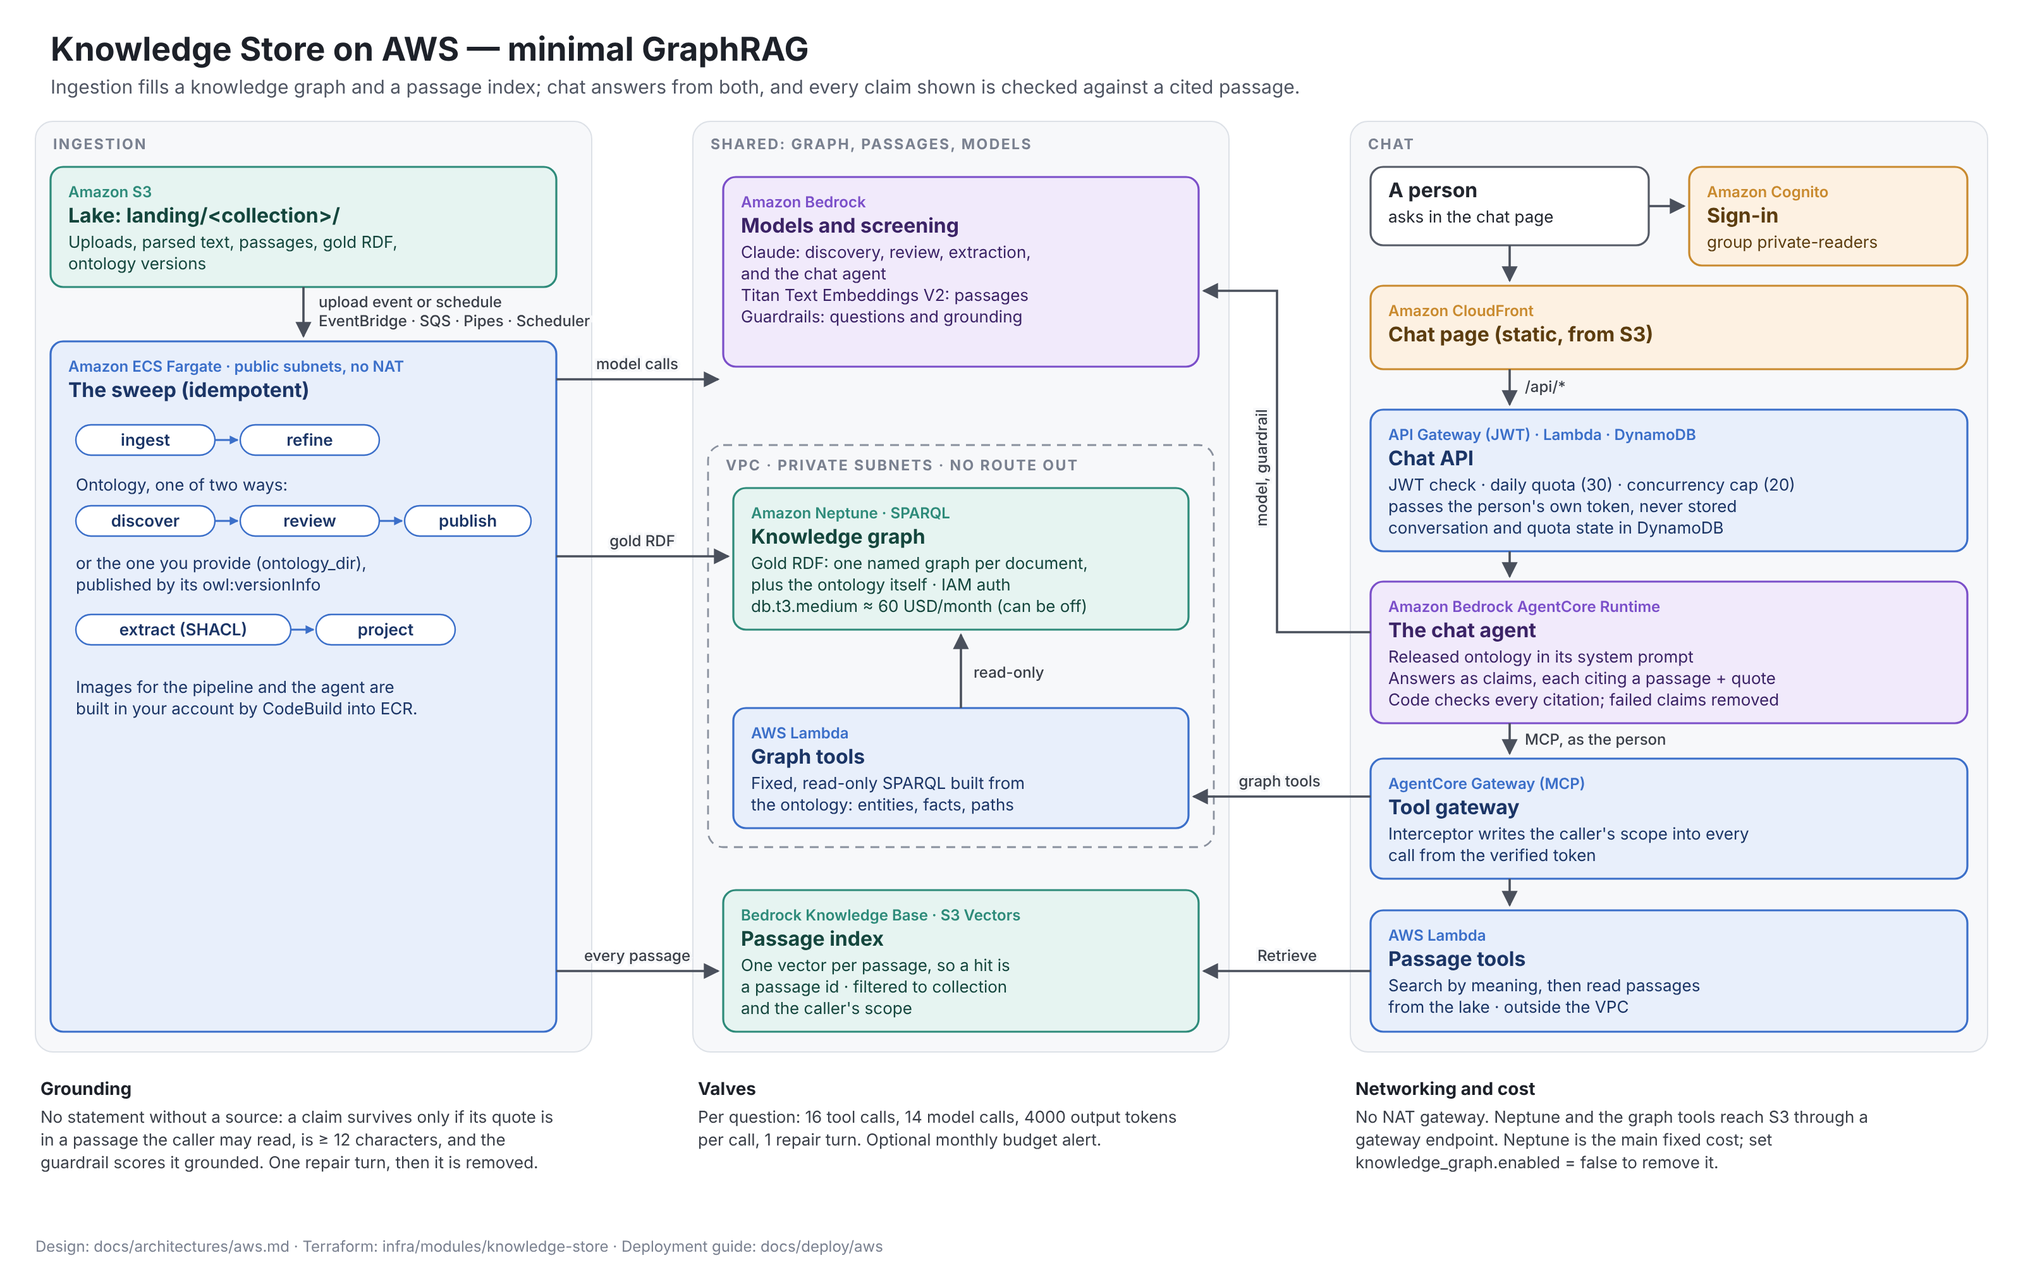
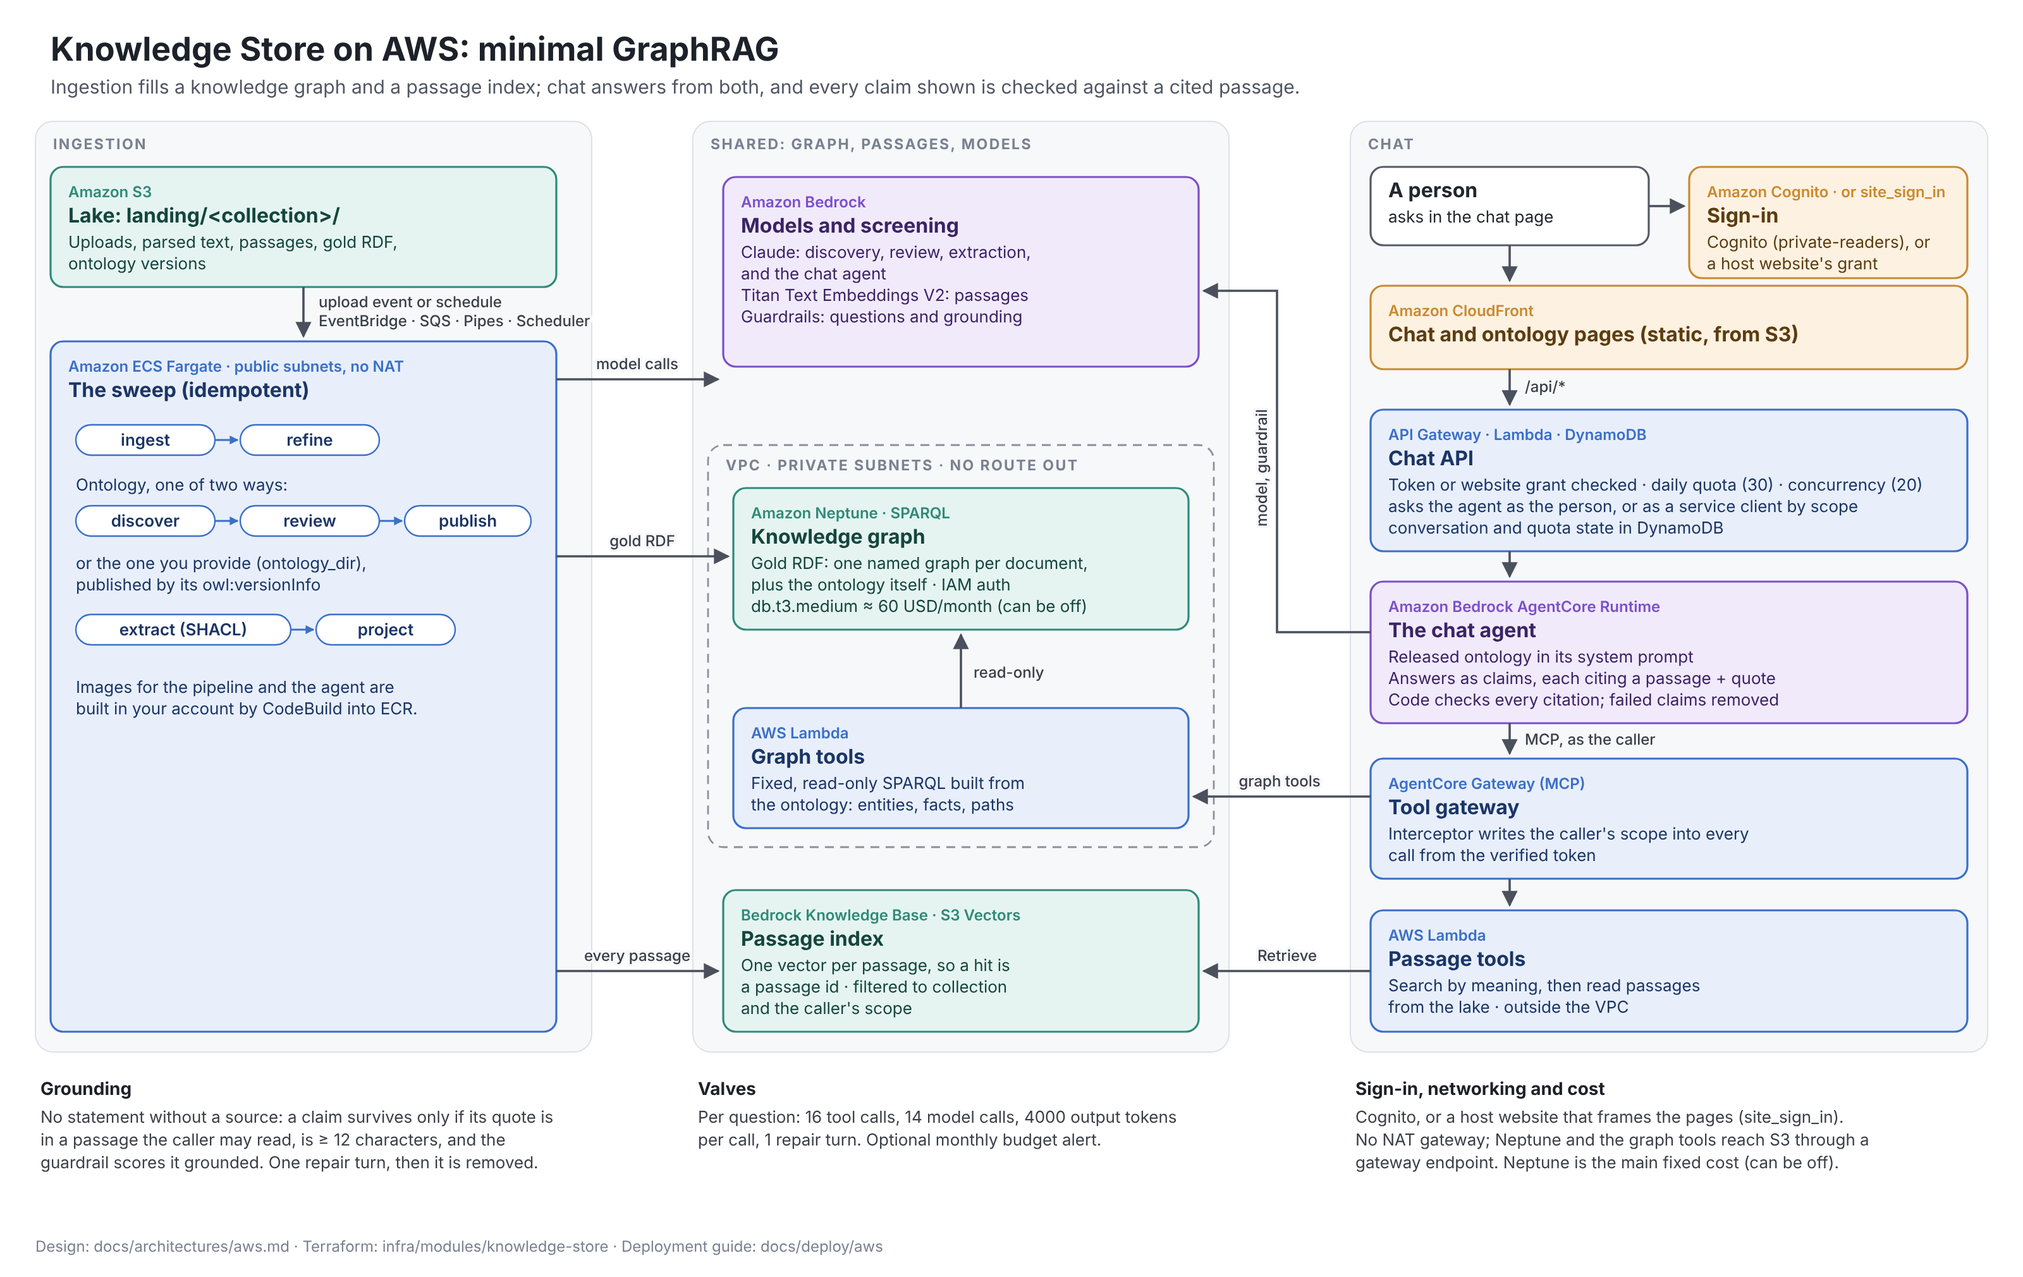
docs(deploy): add the AWS architecture diagram as an editable draw.io file
docs/deploy/aws/architecture.drawio, generated by architecture_drawio.py
with the same layout and content as the SVG: every component a draw.io
shape and every flow a connector, so it can be changed in diagrams.net.
The SVG and PNG now also show sign-in through a host website
(site_sign_in), the ontology page, and the chat API asking the agent as a
service client.

Claude-Session: https://claude.ai/code/session_01BPzYfKMy95mKNesbjZCLLw

diff --git a/docs/deploy/aws/architecture_drawio.py b/docs/deploy/aws/architecture_drawio.py
@@ -1,0 +1,188 @@
+# Generates architecture.drawio, an editable draw.io (diagrams.net) version of the Knowledge Store
+# AWS reference architecture, next to this file. Same layout and content as architecture.py (the
+# SVG and PNG); open the .drawio file in diagrams.net or the draw.io desktop app or VS Code
+# extension to change it.
+#   python3 architecture_drawio.py
+import os
+from xml.sax.saxutils import escape
+
+W, H = 1600, 1010
+C = {  # role: (fill, stroke, text), as architecture.py
+    "store": ("#E6F4F1", "#2E8B7A", "#14463D"),
+    "compute": ("#E8EFFB", "#3B6FC9", "#1B3566"),
+    "ai": ("#F1EAFB", "#7B4FC9", "#3B2366"),
+    "edge": ("#FDF1E2", "#C98A2E", "#5C3D0F"),
+    "person": ("#FFFFFF", "#555B66", "#22262E"),
+}
+FONT = "fontFamily=Helvetica;"
+cells = []
+n = [1]
+
+
+def nid(prefix):
+    n[0] += 1
+    return f"{prefix}{n[0]}"
+
+
+def attr(s: str) -> str:
+    return escape(s, {'"': "&quot;"})
+
+
+def vertex(x, y, w, h, style, value="", ident=None, parent="1"):
+    ident = ident or nid("v")
+    cells.append(f'<mxCell id="{ident}" value="{attr(value)}" style="{style}" vertex="1" parent="{parent}">'
+                 f'<mxGeometry x="{x}" y="{y}" width="{w}" height="{h}" as="geometry"/></mxCell>')
+    return ident
+
+
+def box(x, y, w, h, role, title, lines=(), svc=None, ident=None):
+    """A component: the AWS service on top, then its name and what it does."""
+    f, s, t = C[role]
+    parts = []
+    if svc:
+        parts.append(f'<font style="font-size:12px" color="{s}"><b>{escape(svc)}</b></font>')
+    parts.append(f'<font style="font-size:16px"><b>{escape(title)}</b></font>')
+    if lines:
+        parts.append('<font style="font-size:13px">' + "<br>".join(escape(l) for l in lines) + "</font>")
+    style = (f"rounded=1;arcSize=6;absoluteArcSize=1;whiteSpace=wrap;html=1;fillColor={f};strokeColor={s};"
+             f"strokeWidth=1.6;fontColor={t};align=left;verticalAlign=top;spacingLeft=12;spacingTop=6;{FONT}")
+    return vertex(x, y, w, h, style, "<br>".join(parts), ident)
+
+
+def chip(x, y, w, text, role, ident=None):
+    f, s, t = C[role]
+    style = (f"rounded=1;arcSize=50;whiteSpace=wrap;html=1;fillColor=#FFFFFF;strokeColor={s};strokeWidth=1.2;"
+             f"fontColor={t};fontStyle=1;fontSize=13;{FONT}")
+    return vertex(x, y, w, 24, style, escape(text), ident)
+
+
+def text(x, y, w, h, html, size=13, color="#3A3F48", bold=False, align="left"):
+    style = (f"text;html=1;whiteSpace=wrap;fontSize={size};fontColor={color};align={align};verticalAlign=top;"
+             f"fontStyle={1 if bold else 0};{FONT}")
+    return vertex(x, y, w, h, style, html)
+
+
+def edge(src, tgt, label="", points=(), dashed=False, color="#4A505C", width=1.8, exit=None, entry=None):
+    style = (f"edgeStyle=none;html=1;rounded=0;endArrow=block;endFill=1;strokeColor={color};strokeWidth={width};"
+             f"fontSize=12;fontColor=#3A3F48;labelBackgroundColor=#F7F8FA;{FONT}")
+    if dashed:
+        style += "dashed=1;"
+    if exit:
+        style += f"exitX={exit[0]};exitY={exit[1]};exitDx=0;exitDy=0;"
+    if entry:
+        style += f"entryX={entry[0]};entryY={entry[1]};entryDx=0;entryDy=0;"
+    pts = "".join(f'<mxPoint x="{x}" y="{y}"/>' for x, y in points)
+    arr = f'<Array as="points">{pts}</Array>' if pts else ""
+    label = "<br>".join(escape(p) for p in label.split("\n")) if label else ""
+    cells.append(f'<mxCell id="{nid("e")}" value="{attr(label)}" style="{style}" edge="1" parent="1" '
+                 f'source="{src}" target="{tgt}"><mxGeometry relative="1" as="geometry">{arr}</mxGeometry></mxCell>')
+
+
+# --- title and lanes -----------------------------------------------------------------------------
+text(40, 22, 1500, 34, "Knowledge Store on AWS: minimal GraphRAG", 26, "#1D2129", True)
+text(40, 58, 1500, 22, "Ingestion fills a knowledge graph and a passage index; chat answers from both, and every "
+     "claim shown is checked against a cited passage.", 15, "#505663")
+for x, w, name in [(28, 440, "INGESTION"), (548, 424, "SHARED: GRAPH, PASSAGES, MODELS"), (1068, 504, "CHAT")]:
+    vertex(x, 96, w, 736, f"rounded=1;arcSize=2;absoluteArcSize=1;fillColor=#F7F8FA;strokeColor=#DDE1E7;"
+           f"html=1;connectable=0;{FONT}")
+    text(x + 14, 102, w - 28, 20, escape(name), 11.5, "#7A8190", True)
+
+# --- ingestion -----------------------------------------------------------------------------------
+lake = box(40, 132, 400, 95, "store", "Lake: landing/<collection>/",
+           ["Uploads, parsed text, passages, gold RDF,", "ontology versions"], "Amazon S3")
+sweep = box(40, 270, 400, 546, "compute", "The sweep (idempotent)", [], "Amazon ECS Fargate · public subnets, no NAT")
+edge(lake, sweep, "upload event or schedule\nEventBridge · SQS · Pipes · Scheduler")
+y0 = 336
+ingest, refine = chip(60, y0, 110, "ingest", "compute"), chip(190, y0, 110, "refine", "compute")
+text(60, y0 + 38, 360, 20, "Ontology, one of two ways:", 13, C["compute"][2])
+discover = chip(60, y0 + 64, 110, "discover", "compute")
+review = chip(190, y0 + 64, 110, "review", "compute")
+publish = chip(320, y0 + 64, 100, "publish", "compute")
+text(60, y0 + 100, 360, 40, "or the one you provide (ontology_dir),<br>published by its owl:versionInfo", 13,
+     C["compute"][2])
+extract = chip(60, y0 + 150, 170, "extract (SHACL)", "compute")
+project = chip(250, y0 + 150, 110, "project", "compute")
+for a, b in [(ingest, refine), (discover, review), (review, publish), (extract, project)]:
+    edge(a, b, color=C["compute"][1], width=1.4)
+text(60, y0 + 198, 360, 40, "Images for the pipeline and the agent are<br>built in your account by CodeBuild into ECR.",
+     13, C["compute"][2])
+
+# --- shared: Bedrock, the VPC with Neptune and the graph tools, the Knowledge Base -----------------
+bedrock = box(572, 140, 376, 150, "ai", "Models and screening",
+              ["Claude: discovery, review, extraction,", "and the chat agent", "Titan Text Embeddings V2: passages",
+               "Guardrails: questions and grounding"], "Amazon Bedrock")
+vertex(560, 352, 400, 318, f"rounded=1;arcSize=3;absoluteArcSize=1;fillColor=none;strokeColor=#8A919E;"
+       f"strokeWidth=1.4;dashed=1;dashPattern=7 5;html=1;connectable=0;{FONT}")
+text(574, 358, 380, 20, "VPC · PRIVATE SUBNETS · NO ROUTE OUT", 11.5, "#5A6170", True)
+neptune = box(580, 386, 360, 112, "store", "Knowledge graph",
+              ["Gold RDF: one named graph per document,", "plus the ontology itself · IAM auth",
+               "db.t3.medium ≈ 60 USD/month (can be off)"], "Amazon Neptune · SPARQL")
+graph_tools = box(580, 560, 360, 95, "compute", "Graph tools",
+                  ["Fixed, read-only SPARQL built from", "the ontology: entities, facts, paths"], "AWS Lambda")
+edge(graph_tools, neptune, "read-only")
+kb = box(572, 704, 376, 112, "store", "Passage index",
+         ["One vector per passage, so a hit is", "a passage id · filtered to collection", "and the caller's scope"],
+         "Bedrock Knowledge Base · S3 Vectors")
+
+edge(sweep, bedrock, "model calls", exit=(1, 0.055), entry=(0, 1.0))
+edge(sweep, neptune, "gold RDF", exit=(1, 0.31), entry=(0, 0.48))
+edge(sweep, kb, "every passage", exit=(1, 0.91), entry=(0, 0.57))
+
+# --- chat ------------------------------------------------------------------------------------------
+person = box(1084, 132, 220, 62, "person", "A person", ["asks in the chat page"])
+signin = box(1336, 132, 220, 88, "edge", "Sign-in", ["Cognito (private-readers), or", "a host website's grant"],
+             "Amazon Cognito · or site_sign_in")
+edge(person, signin, exit=(1, 0.5), entry=(0, 0.4))
+page = box(1084, 226, 472, 66, "edge", "Chat and ontology pages (static, from S3)", [], "Amazon CloudFront")
+edge(person, page, exit=(0.5, 1), entry=(0.233, 0))
+api = box(1084, 324, 472, 112, "compute", "Chat API",
+          ["Token or website grant checked · daily quota (30) · concurrency (20)",
+           "asks the agent as the person, or as a service client by scope",
+           "conversation and quota state in DynamoDB"], "API Gateway · Lambda · DynamoDB")
+edge(page, api, "/api/*", exit=(0.233, 1), entry=(0.233, 0))
+agent = box(1084, 460, 472, 112, "ai", "The chat agent",
+            ["Released ontology in its system prompt", "Answers as claims, each citing a passage + quote",
+             "Code checks every citation; failed claims removed"], "Amazon Bedrock AgentCore Runtime")
+edge(api, agent, exit=(0.233, 1), entry=(0.233, 0))
+edge(agent, bedrock, "model, guardrail", points=[(1010, 500), (1010, 230)], exit=(0, 0.357), entry=(1, 0.6))
+gateway = box(1084, 600, 472, 95, "compute", "Tool gateway",
+              ["Interceptor writes the caller's scope into every", "call from the verified token"],
+              "AgentCore Gateway (MCP)")
+edge(agent, gateway, "MCP, as the caller", exit=(0.233, 1), entry=(0.233, 0))
+edge(gateway, graph_tools, "graph tools", exit=(0, 0.316), entry=(1, 0.737))
+passages = box(1084, 720, 472, 96, "compute", "Passage tools",
+               ["Search by meaning, then read passages", "from the lake · outside the VPC"], "AWS Lambda")
+edge(gateway, passages, exit=(0.233, 1), entry=(0.233, 0))
+edge(passages, kb, "Retrieve", exit=(0, 0.5), entry=(1, 0.571))
+
+# --- footer notes ------------------------------------------------------------------------------------
+notes = [
+    ("Grounding", ["No statement without a source: a claim survives only if its quote is",
+                   "in a passage the caller may read, is ≥ 12 characters, and the",
+                   "guardrail scores it grounded. One repair turn, then it is removed."]),
+    ("Valves", ["Per question: 16 tool calls, 14 model calls, 4000 output tokens",
+                "per call, 1 repair turn. Optional monthly budget alert."]),
+    ("Sign-in, networking and cost", ["Cognito, or a host website that frames the pages (site_sign_in).",
+                                      "No NAT gateway; Neptune and the graph tools reach S3 through a",
+                                      "gateway endpoint. Neptune is the main fixed cost (can be off)."]),
+]
+for i, (head, lines) in enumerate(notes):
+    x = 28 + i * 520
+    text(x + 4, 850, 500, 20, escape(head), 14, "#1D2129", True)
+    text(x + 4, 872, 500, 60, "<br>".join(escape(l) for l in lines), 13)
+text(28, 976, 1540, 20, "Design: docs/architectures/aws.md · Terraform: infra/modules/knowledge-store · "
+     "Deployment guide: docs/deploy/aws · Generated by architecture_drawio.py", 12, "#7A8190")
+
+doc = f'''<mxfile host="Electron" type="device">
+  <diagram id="knowledge-store-aws" name="Knowledge Store on AWS">
+    <mxGraphModel dx="{W}" dy="{H}" grid="1" gridSize="10" guides="1" tooltips="1" connect="1" arrows="1" fold="1" page="1" pageScale="1" pageWidth="{W}" pageHeight="{H}" background="#FFFFFF" math="0" shadow="0">
+      <root>
+        <mxCell id="0"/>
+        <mxCell id="1" parent="0"/>
+        {chr(10).join("        " + c for c in cells).lstrip()}
+      </root>
+    </mxGraphModel>
+  </diagram>
+</mxfile>
+'''
+open(os.path.join(os.path.dirname(os.path.abspath(__file__)), "architecture.drawio"), "w").write(doc)

diff --git a/docs/deploy/aws/architecture.py b/docs/deploy/aws/architecture.py
@@ -33,7 +33,7 @@ def chip(x, y, w, text, role):
     out.append(f'<text x="{x+w/2}" y="{y+16.5}" class="chip" fill="{t}" text-anchor="middle">{text}</text>')
 
 # Title and lanes
-out.append('<text x="40" y="48" class="h1">Knowledge Store on AWS — minimal GraphRAG</text>')
+out.append('<text x="40" y="48" class="h1">Knowledge Store on AWS: minimal GraphRAG</text>')
 out.append('<text x="40" y="74" class="sub">Ingestion fills a knowledge graph and a passage index; chat answers from both, and every claim shown is checked against a cited passage.</text>')
 for x, w, name in [(28, 440, "INGESTION"), (548, 424, "SHARED: GRAPH, PASSAGES, MODELS"), (1068, 504, "CHAT")]:
     out.append(f'<rect x="{x}" y="96" width="{w}" height="736" rx="14" fill="#F7F8FA" stroke="#DDE1E7"/>')
@@ -73,17 +73,17 @@ arrow([(440, 768), (568, 768)], "every passage", 504, 760)
 
 # Chat column
 box(1084, 132, 220, 62, "person", "A person", ["asks in the chat page"])
-box(1336, 132, 220, 78, "edge", "Sign-in", ["group private-readers"], "Amazon Cognito")
+box(1336, 132, 220, 88, "edge", "Sign-in", ["Cognito (private-readers), or", "a host website's grant"], "Amazon Cognito · or site_sign_in")
 arrow([(1304, 163), (1332, 163)])
 arrow([(1194, 194), (1194, 222)])
-box(1084, 226, 472, 66, "edge", "Chat page (static, from S3)", [], "Amazon CloudFront")
+box(1084, 226, 472, 66, "edge", "Chat and ontology pages (static, from S3)", [], "Amazon CloudFront")
 arrow([(1194, 292), (1194, 320)], "/api/*", 1206, 310, "start")
-box(1084, 324, 472, 112, "compute", "Chat API", ["JWT check · daily quota (30) · concurrency cap (20)", "passes the person's own token, never stored", "conversation and quota state in DynamoDB"], "API Gateway (JWT) · Lambda · DynamoDB")
+box(1084, 324, 472, 112, "compute", "Chat API", ["Token or website grant checked · daily quota (30) · concurrency (20)", "asks the agent as the person, or as a service client by scope", "conversation and quota state in DynamoDB"], "API Gateway · Lambda · DynamoDB")
 arrow([(1194, 436), (1194, 456)])
 box(1084, 460, 472, 112, "ai", "The chat agent", ["Released ontology in its system prompt", "Answers as claims, each citing a passage + quote", "Code checks every citation; failed claims removed"], "Amazon Bedrock AgentCore Runtime")
 arrow([(1084, 500), (1010, 500), (1010, 230), (952, 230)])
 out.append('<text x="1002" y="370" class="lbl" text-anchor="middle" transform="rotate(-90 1002 370)">model, guardrail</text>')
-arrow([(1194, 572), (1194, 596)], "MCP, as the person", 1206, 589, "start")
+arrow([(1194, 572), (1194, 596)], "MCP, as the caller", 1206, 589, "start")
 box(1084, 600, 472, 95, "compute", "Tool gateway", ["Interceptor writes the caller's scope into every", "call from the verified token"], "AgentCore Gateway (MCP)")
 arrow([(1084, 630), (944, 630)], "graph tools", 1012, 622)
 arrow([(1194, 695), (1194, 716)])
@@ -94,7 +94,7 @@ arrow([(1084, 768), (952, 768)], "Retrieve", 1018, 760)
 notes = [
  ("Grounding", ["No statement without a source: a claim survives only if its quote is", "in a passage the caller may read, is ≥ 12 characters, and the", "guardrail scores it grounded. One repair turn, then it is removed."]),
  ("Valves", ["Per question: 16 tool calls, 14 model calls, 4000 output tokens", "per call, 1 repair turn. Optional monthly budget alert."]),
- ("Networking and cost", ["No NAT gateway. Neptune and the graph tools reach S3 through a", "gateway endpoint. Neptune is the main fixed cost; set", "knowledge_graph.enabled = false to remove it."]),
+ ("Sign-in, networking and cost", ["Cognito, or a host website that frames the pages (site_sign_in).", "No NAT gateway; Neptune and the graph tools reach S3 through a", "gateway endpoint. Neptune is the main fixed cost (can be off)."]),
 ]
 for i, (h, ls) in enumerate(notes):
     x = 28 + i*520

diff --git a/CHANGELOG.md b/CHANGELOG.md
@@ -18,6 +18,7 @@ Notable changes are recorded here. The format follows [Keep a Changelog](https:/
 - A review pass after discovery that adds hierarchy, merges near-duplicates and fixes domains, ranges and datatypes, recorded edit by edit in the draft's report (`discovery.review`, on by default).
 - Publish refuses an `owl:versionIRI` that does not name the version, and accepts a change to the ontology's own label or comment as a patch.
 - AWS inputs for deploying into an existing estate, each optional with today's behaviour as its default: `network` (the VPC's CIDR and zones, a NAT gateway, or a VPC and subnets you bring), `portal_domain` (the portal on your own domain with an ACM certificate), `permissions_boundary` (on every IAM role) and `log_retention_days`. A `portal_cloudfront_domain` output.
+- The AWS reference architecture as an editable draw.io file (`docs/deploy/aws/architecture.drawio`), beside the SVG and PNG, which now show sign-in through a host website and the ontology page.
 - Sign-in through a host website (`site_sign_in`): a website that signs people in frames the portal and hands each person's page a short ES256 grant for the lab, which the portal API verifies on every request (`knowledge_store.site_grant`) in place of Cognito. Roles decide who may read and who may read private sources. The portal asks the agent as a public or a private service client, and CloudFront lets the website frame the pages. Off by default.
 - The passage tools could not read the collection's `ontology/active.json`, which the index loads first, so every passage search failed with an S3 403. Their role now reads the ontology layer, as the graph tools' does.
 - The chat page stalled after every sign-in: its own `history()` function hid `window.history`, so stripping the sign-in code from the URL threw. Renamed. The page's files are now served with `Cache-Control: no-cache`, so a browser never runs a previous release's `app.js` against a new page.

diff --git a/docs/deploy/aws/README.md b/docs/deploy/aws/README.md
@@ -14,6 +14,7 @@ your machine: container images are built by CodeBuild inside your account.
 | [parameters.md](parameters.md) | Every parameter: what you must bring, what you may decide, the defaults |
 | [components.md](components.md) | The components, and how each one is expressed in the Terraform |
 | [architecture.png](architecture.png) / [architecture.svg](architecture.svg) | The reference architecture diagram |
+| [architecture.drawio](architecture.drawio) | The same diagram as an editable draw.io file: open it in [diagrams.net](https://app.diagrams.net), the draw.io desktop app or its VS Code extension. `architecture.py` and `architecture_drawio.py` generate the SVG and the draw.io file |
 | [`infra/stack`](../../../infra/stack) | The Terraform root you apply, with [`terraform.tfvars.example`](../../../infra/stack/terraform.tfvars.example) |
 | [`infra/modules/knowledge-store`](../../../infra/modules/knowledge-store) | The module it calls, which holds everything |
 
